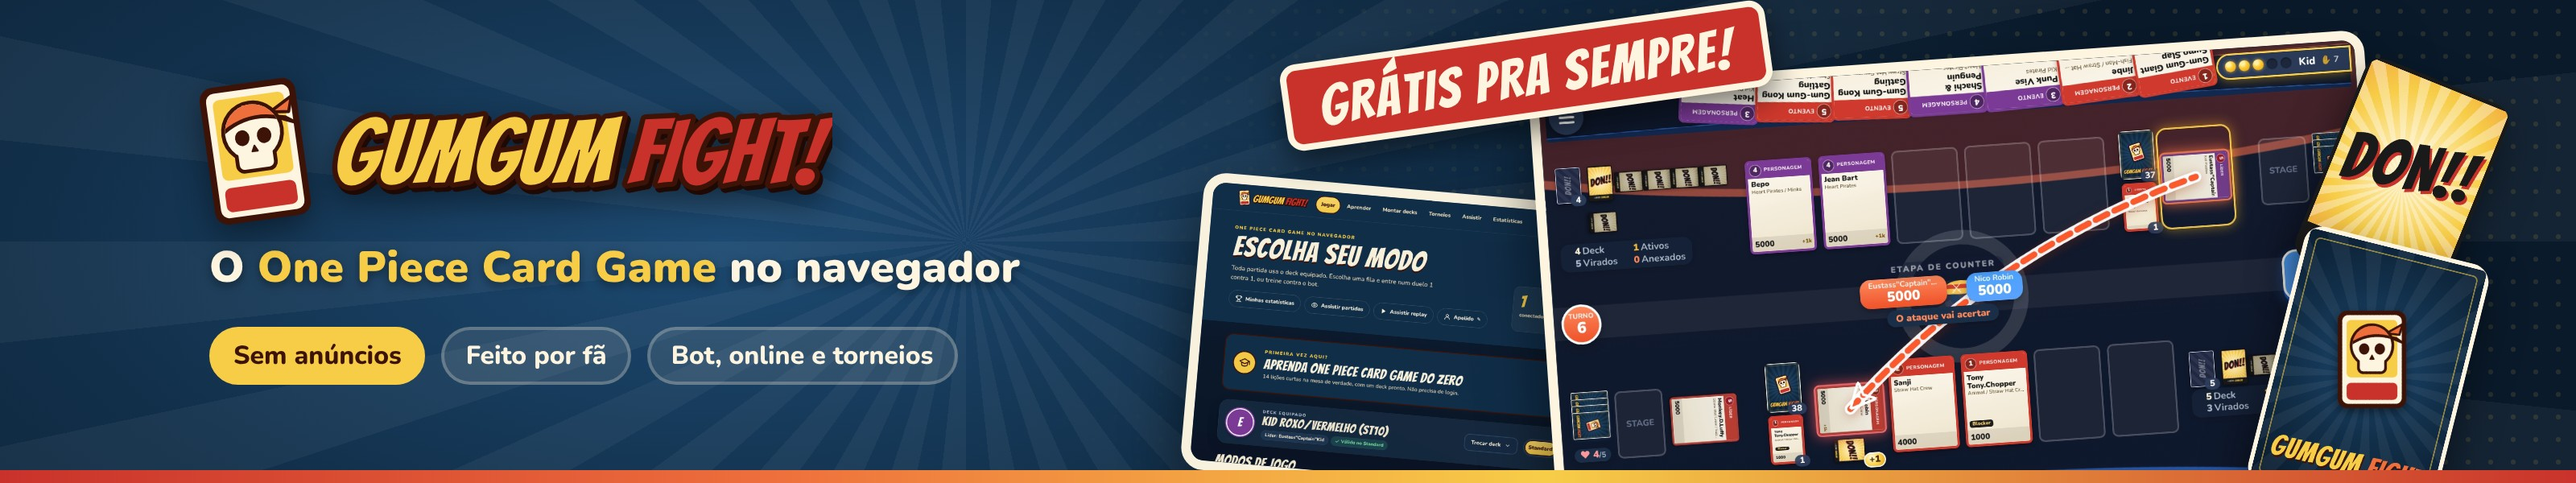
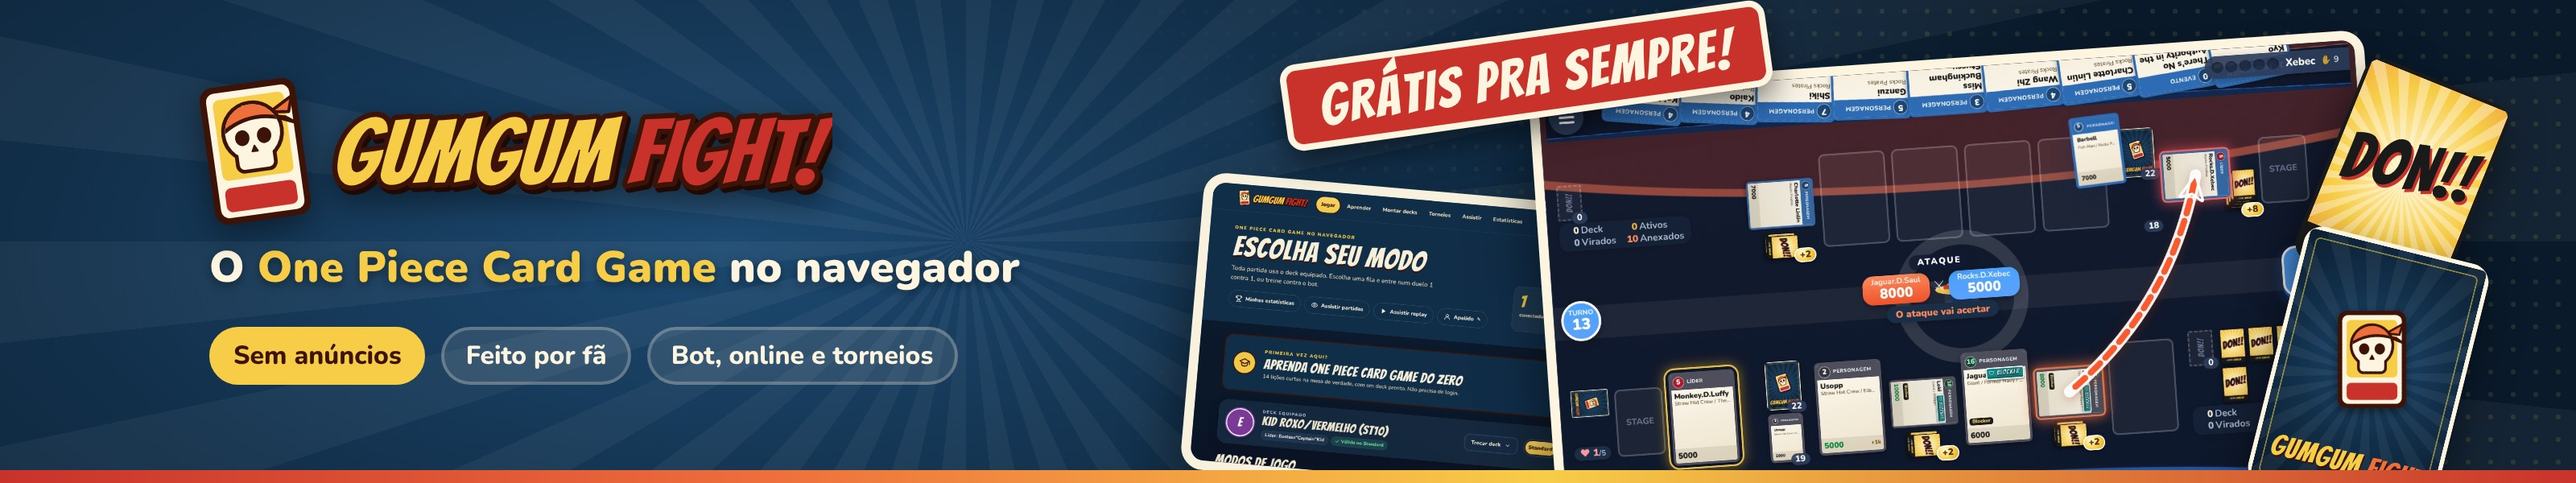
Divulgação: partida e deck de OP17 (Luffy x Rocks.D.Xebec) e destaque dos spoilers
- A partida dos trailers, GIFs e peças agora é Monkey.D.Luffy (OP17, preto) x
  Rocks.D.Xebec (OP17, azul), com as listas em scripts/divulgacao/decks/.
- O replay é gerado com desempate pela seed e sem prazo para o bot, então a
  mesma seed repete a partida.
- Novo fluxo gravado: "Só spoilers" no construtor, com o GIF gif-spoilers e a
  legenda "Cartas novas antes do lançamento" nos trailers.
- Textos da campanha e do post de inauguração falam dos spoilers (e de onde
  eles valem: não na ranqueada).

Claude-Session: https://claude.ai/code/session_016XP7hQhbTaJN5Xje6G6ehV

Changed region(s): [[0.5938, 0.09, 0.9062, 0.99], [0.5938, 0.63, 0.625, 0.72], [0.3125, 0.54, 0.3438, 0.57]]

diff --git a/scripts/divulgacao/modelos/fundo916.html b/scripts/divulgacao/modelos/fundo916.html
@@ -1,0 +1,2 @@
+<html><head><link rel="stylesheet" href="base.css"></head><body style="width:1080px;height:1920px">
+<div class="bg"><div class="rays"></div></div><div class="stripe"></div></body></html>

diff --git a/scripts/divulgacao/montar.py b/scripts/divulgacao/montar.py
@@ -1,6 +1,6 @@
 """Monta os trailers (16:9 e 9:16) e os GIFs a partir das gravações em $SAIDA.
 
-Os cortes (CORTES) valem para o replay padrão do gerar.sh (Luffy ST01 x Kid ST10, seed 2) gravado em 1x:
+Os cortes (CORTES) valem para o replay padrão do gerar.sh (Luffy OP17 x Rocks.D.Xebec OP17, seed 4) gravado em 1x:
 com outro replay, ou se o motor ou as animações mudarem, confira os tempos numa folha de quadros
 (ffmpeg -i partida-16x9.mp4 -vf fps=1,scale=240:-2,tile=8x6 folha%02d.png) e ajuste aqui.
 Uso: python3 montar.py
@@ -13,8 +13,21 @@ SAIDA = os.environ.get('SAIDA', os.path.join(AQUI, 'saida'))
 MUSICA = os.path.join(AQUI, '../../apps/web/src/assets/audio/music/battle.mp3')  # "Valsa do Mar", composição original
 os.chdir(SAIDA)
 
-# (início, fim, legenda) em segundos da gravação da partida.
-CORTES = [(3.0, 9.0, 1), (19.5, 24.0, None), (31.5, 37.5, 2), (95.0, 100.0, None), (150.5, 154.0, 3), (170.5, 175.0, 4), (186.5, 194.0, 5)]
+# (gravação, início, fim, legenda): 'partida' é partida-<formato>.mp4; 'spoilers' é o fluxo-spoilers.mp4 (só em 16:9:
+# no trailer vertical entra a parte do catálogo com o detalhe da carta, ampliada, sobre o fundo do GumGum).
+CORTES = [
+    ('partida', 5.0, 10.5, 1),      # começo: as primeiras cartas na mesa
+    ('partida', 17.0, 21.5, None),  # primeiro ataque no Líder
+    ('partida', 51.5, 56.0, 2),     # Kaido entra atacando
+    ('spoilers', 2.6, 9.2, 6),      # "Só spoilers" no construtor e o detalhe de uma carta não lançada
+    ('partida', 120.5, 125.5, None),  # Loki com 8000 e K.O.
+    ('partida', 151.5, 156.5, 3),   # Edward.Newgate com 10000
+    ('partida', 165.5, 170.0, 4),   # Luffy com 10000 e K.O.
+    ('partida', 223.5, 233.0, 5),   # o golpe final e a vitória
+]
+# Partes da partida usadas nos GIFs.
+GIF_PARTIDA = [(17.0, 21.5), (51.5, 56.0), (224.0, 231.0)]
+GIF_PARTIDA_CELULAR = [(51.5, 56.0), (224.0, 231.0)]
 FUSAO = 0.35
 ENC = ['-c:v', 'libx264', '-preset', 'medium', '-crf', '18', '-pix_fmt', 'yuv420p', '-r', '30']
 
@@ -32,14 +45,22 @@ def trailer(fmt):
     out = f'cortes-{fmt}/00.mp4'
     ff('-loop', '1', '-t', '3', '-i', f'abertura-{fmt}.png', '-vf', f'scale={W}:{H},fade=in:st=0:d=0.5', *ENC, out)
     segs.append((out, 3))
-    for i, (a, b, leg) in enumerate(CORTES, 1):
+    for i, (rec, a, b, leg) in enumerate(CORTES, 1):
         d = b - a
         out = f'cortes-{fmt}/{i:02d}.mp4'
+        video = src if rec == 'partida' else f'fluxo-{rec}.mp4'
+        base = '[0:v]'
+        pre = ''
+        if rec != 'partida' and fmt == '9x16':
+            # O catálogo com o detalhe da carta (a parte esquerda do construtor), ampliado no meio da tela vertical.
+            pre = f'[0:v]crop=1250:1080:0:0,scale={W}:-2[fg];[2:v][fg]overlay=0:(H-h)/2+60[base];'
+            base = '[base]'
         if leg:
-            ff('-ss', str(a), '-t', str(d), '-i', src, '-loop', '1', '-t', str(d), '-i', f'legenda-{leg}-{fmt}.png', '-filter_complex',
-               f'[1]format=rgba,fade=in:st=0.25:d=0.35:alpha=1,fade=out:st={d - 0.6}:d=0.35:alpha=1[c];[0][c]overlay=(W-w)/2:{legY}', *ENC, out)
+            fundo = ['-loop', '1', '-t', str(d), '-i', 'fundo-9x16.png'] if pre else []
+            ff('-ss', str(a), '-t', str(d), '-i', video, '-loop', '1', '-t', str(d), '-i', f'legenda-{leg}-{fmt}.png', *fundo, '-filter_complex',
+               f'{pre}[1]format=rgba,fade=in:st=0.25:d=0.35:alpha=1,fade=out:st={d - 0.6}:d=0.35:alpha=1[c];{base}[c]overlay=(W-w)/2:{legY}', *ENC, out)
         else:
-            ff('-ss', str(a), '-t', str(d), '-i', src, *ENC, out)
+            ff('-ss', str(a), '-t', str(d), '-i', video, *ENC, out)
         segs.append((out, d))
     out = f'cortes-{fmt}/99.mp4'
     ff('-loop', '1', '-t', '4.5', '-i', f'fim-{fmt}.png', '-vf', f'scale={W}:{H},fade=out:st=4:d=0.5', *ENC, out)
@@ -66,13 +87,18 @@ def gif(src, out, width, fps=12, colors=192, vf=''):
 trailer('16x9')
 trailer('9x16')
 
+def junta(src, partes, out):
+    args = sum([['-ss', str(a), '-t', str(b - a), '-i', src] for a, b in partes], [])
+    entradas = ''.join(f'[{k}:v]' for k in range(len(partes)))
+    ff(*args, '-filter_complex', f'{entradas}concat=n={len(partes)}:v=1[v]', '-map', '[v]', '-c:v', 'libx264', '-crf', '14', '-preset', 'fast', out)
+
+
 # GIFs (até ~5 MB cada, para caber no editor da Apoia.se).
-ff('-ss', '19.5', '-t', '4.5', '-i', 'partida-16x9.mp4', '-ss', '31.5', '-t', '6', '-i', 'partida-16x9.mp4', '-ss', '186.5', '-t', '6', '-i', 'partida-16x9.mp4',
-   '-filter_complex', '[0:v][1:v][2:v]concat=n=3:v=1[v]', '-map', '[v]', '-c:v', 'libx264', '-crf', '14', '-preset', 'fast', 'gif-partida.mp4')
+junta('partida-16x9.mp4', GIF_PARTIDA, 'gif-partida.mp4')
 gif('gif-partida.mp4', 'gif-partida.gif', 680, fps=10, colors=128)
-ff('-ss', '31.5', '-t', '5.5', '-i', 'partida-9x16.mp4', '-ss', '186.5', '-t', '6', '-i', 'partida-9x16.mp4',
-   '-filter_complex', '[0:v][1:v]concat=n=2:v=1[v]', '-map', '[v]', '-c:v', 'libx264', '-crf', '14', '-preset', 'fast', 'gif-partida-celular.mp4')
+junta('partida-9x16.mp4', GIF_PARTIDA_CELULAR, 'gif-partida-celular.mp4')
 gif('gif-partida-celular.mp4', 'gif-partida-celular.gif', 360)
 gif('fluxo-tutorial.mp4', 'gif-tutorial.gif', 800, vf='trim=2.2:18.8,setpts=(PTS-STARTPTS)/1.35,')
-gif('fluxo-builder.mp4', 'gif-deckbuilder.gif', 800, vf='trim=0.5:19.2,setpts=(PTS-STARTPTS)/1.4,')
+gif('fluxo-builder.mp4', 'gif-deckbuilder.gif', 800, vf='trim=0.5:18.6,setpts=(PTS-STARTPTS)/1.4,')
+gif('fluxo-spoilers.mp4', 'gif-spoilers.gif', 800, vf='trim=1.0:22.8,setpts=(PTS-STARTPTS)/1.4,')
 gif('fluxo-home.mp4', 'gif-home.gif', 800)

diff --git a/docs/apoio/midia/README.md b/docs/apoio/midia/README.md
@@ -24,14 +24,16 @@ gravação. A música dos vídeos é a "Valsa do Mar", composição original do 
 | `gif-partida.gif` | 680 px, ~16 s, ~4 MB | Topo do texto "Sobre": ataques, K.O. e a vitória |
 | `gif-partida-celular.gif` | 360 × 640, ~11 s, ~3 MB | Seção "Por que esta página existe" (mostra que roda no celular) |
 | `gif-tutorial.gif` | 800 px, ~12 s, ~3 MB | Seção do que dá para fazer: a lição 1 do tutorial até a vitória |
-| `gif-deckbuilder.gif` | 800 px, ~13 s, ~1,5 MB | Seção do que dá para fazer: montando um deck |
+| `gif-deckbuilder.gif` | 800 px, ~13 s, ~1,5 MB | Seção do que dá para fazer: montando um deck de OP17 (Rocks.D.Xebec) |
+| `gif-spoilers.gif` | 800 px, ~16 s, ~1,5 MB | Seção do que dá para fazer: "Só spoilers" no construtor e um deck com cartas ainda não lançadas |
 | `gif-home.gif` | 800 px, ~9 s, ~2 MB | Opcional: os modos de jogo da página inicial |
-| `trailer-16x9.mp4` | 1920 × 1080, ~42 s, com música | Vídeo da campanha (subir no YouTube e colar o link na Apoia.se) |
-| `trailer-9x16.mp4` | 1080 × 1920, ~41 s, com música | Reels, Shorts e TikTok |
+| `trailer-16x9.mp4` | 1920 × 1080, ~50 s, com música | Vídeo da campanha (subir no YouTube e colar o link na Apoia.se) |
+| `trailer-9x16.mp4` | 1080 × 1920, ~50 s, com música | Reels, Shorts e TikTok |
 
-Os trailers abrem com o logo, mostram uma partida real (Luffy x Kid) com as legendas "Treine contra o bot",
-"Jogue online", "Torneios da comunidade", "Reveja cada jogada" e "Grátis. Sem anúncios." e fecham com
-"Jogue grátis: gumgumfight.app" e o convite para apoiar.
+Os trailers abrem com o logo e mostram uma partida real da coleção mais nova: Monkey.D.Luffy (OP17, preto) x
+Rocks.D.Xebec (OP17, azul), decidida com 1 de Vida. As legendas são "Treine contra o bot", "Jogue online", "Cartas
+novas antes do lançamento" (sobre o construtor filtrando os spoilers), "Torneios da comunidade", "Reveja cada jogada"
+e "Grátis. Sem anúncios.". O fim é "Jogue grátis: gumgumfight.app" e o convite para apoiar.
 
 ## Como gerar de novo
 
@@ -39,8 +41,9 @@ Quando o site mudar (tela nova, layout novo), é só rodar o gerador outra vez:
 
 ```bash
 npm i --no-save playwright          # uma vez; precisa também de ffmpeg e Xvfb (xvfb-run)
+npm run cards:import -- --all       # uma vez: as coleções (a partida usa os decks de OP17)
 CARD_IMAGES=off npm run dev         # em outro terminal: o site sem as imagens oficiais
-bash scripts/divulgacao/gerar.sh    # ~15 minutos; tudo sai em scripts/divulgacao/saida/
+bash scripts/divulgacao/gerar.sh    # ~25 minutos; tudo sai em scripts/divulgacao/saida/
 ```
 
 Versão com as artes oficiais (cartas, verso e DON!!, como o jogador vê no site), para comparar: suba o site com
@@ -49,10 +52,11 @@ Versão com as artes oficiais (cartas, verso e DON!!, como o jogador vê no site
 
 O que cada parte faz:
 
-- `gerar-replay.mts`: joga uma partida bot x bot (Luffy ST01 x Kid ST10, seed 2: Luffy vence com 1 de Vida) e salva
-  o replay.
+- `decks/`: as listas da partida (Luffy preto e Rocks.D.Xebec azul, só cartas de OP17, válidas em Standard).
+- `gerar-replay.mts`: joga uma partida bot x bot e salva o replay. O `replay-padrao.json` é Luffy x Xebec com a seed 4
+  (Luffy vence com 1 de Vida em 13 turnos); com a mesma seed, os mesmos decks e o mesmo motor, a partida se repete.
 - `gravar.mjs`: abre o site num Chromium com janela de verdade (Xvfb) e grava com o ffmpeg em 1920 × 1080 e
-  1080 × 1920 a 30 fps: o replay no "Assistir replay" e os fluxos da home, do tutorial e do construtor.
+  1080 × 1920 a 30 fps: o replay no "Assistir replay" e os fluxos da home, do tutorial, do construtor e dos spoilers.
 - `imagens.mjs`: desenha as peças em HTML (`modelos/`): verso e DON!! do GumGum, banner, post, story, planos,
   perfil, aberturas e legendas dos trailers.
 - `montar.py`: corta os melhores momentos, junta com as aberturas e a música e gera os trailers e os GIFs. Os tempos

diff --git a/docs/apoio/textos-apoiase.md b/docs/apoio/textos-apoiase.md
@@ -34,13 +34,16 @@ Colar no editor da página. Onde está escrito **[GIF: …]** ou **[imagem: …]
 > - **Jogar online:** partida rápida, ranqueada (com recompensa em Berries, do East Blue ao Yonkou) e salas privadas
 >   para jogar com os amigos.
 > - **Torneios da comunidade:** suíço com top cut ou mata-mata, melhor de 1, 3 ou 5, com chave e relógio.
-> - **Montar decks** com o catálogo de cartas, nos formatos Standard e Extra Grand Battle, importando e exportando a
->   lista no formato da comunidade.
+> - **Montar decks** com todas as coleções lançadas, até a mais recente, nos formatos Standard e Extra Grand Battle,
+>   importando e exportando a lista no formato da comunidade.
+> - **Cartas novas antes do lançamento:** as cartas reveladas da próxima coleção entram no site como **spoilers**,
+>   assim que são anunciadas. Dá para montar o deck e testar contra o bot, na partida rápida e com os amigos antes de
+>   a coleção chegar às lojas. Quando ela sai, a carta vira oficial sozinha e o seu deck continua igual.
 > - **Assistir** partidas ao vivo e rever qualquer partida jogada por jogada no replay.
 > - **Estatísticas do meta:** Líderes mais jogados, matchups e desempenho carta a carta.
 > - **Instala como app** no celular, com notificações quando a sua partida ou o seu torneio começa.
 >
-> **[GIF: `gif-tutorial.gif`]** **[GIF: `gif-deckbuilder.gif`]**
+> **[GIF: `gif-tutorial.gif`]** **[GIF: `gif-deckbuilder.gif`]** **[GIF: `gif-spoilers.gif`]**
 >
 > ### Grátis hoje, grátis sempre
 >
@@ -138,5 +141,9 @@ Colar no editor da página. Onde está escrito **[GIF: …]** ou **[imagem: …]
 > **Apoiei com outro e-mail. E agora?** Fale com a equipe no Discord: o plano é liberado à mão.
 >
 > **Quando o plano vence?** No dia 10 do mês seguinte a cada pagamento. Enquanto o apoio continuar, ele renova sozinho.
+>
+> **Dá para jogar com as cartas que ainda não saíram?** Sim. Os spoilers da próxima coleção entram no site assim que
+> são revelados, com a etiqueta SPOILER. Valem contra o bot, na partida rápida, nas salas privadas e nos torneios
+> "Todas as cartas + spoilers"; na ranqueada, só depois do lançamento.
 >
 > **Prefiro Pix avulso.** Use o "Doe um Cafezim" no site: vai direto, sem cadastro.

diff --git a/docs/apoio/post-inauguracao.md b/docs/apoio/post-inauguracao.md
@@ -21,6 +21,9 @@ O primeiro post da página na Apoia.se, com versões curtas para as redes sociai
 > ranqueada e salas com os amigos), entrar em torneios, montar decks, assistir partidas ao vivo e rever qualquer
 > jogada no replay.
 >
+> E tem as cartas novas antes de todo mundo: assim que as cartas da próxima coleção são reveladas, elas entram no site
+> como **spoilers**. Dá para montar o deck e testar antes de a coleção chegar às lojas.
+>
 > ### O que é grátis continua grátis. Para sempre.
 >
 > Jogar, aprender, montar decks, entrar em torneios e ver as suas estatísticas é e sempre vai ser de graça. Nenhum
@@ -68,6 +71,7 @@ Imagem: `post-inauguracao-1080.jpg` (feed) ou `story-inauguracao-1080x1920.jpg` 
 > 🏴☠ A Apoia.se do GumGum Fight está no ar!
 >
 > O One Piece Card Game no navegador continua 100% grátis: jogar, aprender, montar decks e entrar em torneios.
+> E as cartas novas chegam como spoilers, para testar antes do lançamento.
 > Sem anúncios e sem vender os seus dados.
 >
 > O apoio paga o servidor e mantém o projeto vivo. Planos a partir de R$ 5, sem nenhuma vantagem dentro da partida.
